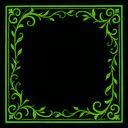
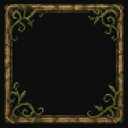
Update sewer sm atlas to warm moss tones matching background

diff --git a/FrontEnds/dungeon-fisher/src/version.js b/FrontEnds/dungeon-fisher/src/version.js
@@ -2,7 +2,7 @@
 //   MAJOR — large game changes, system overhauls, breaking save changes
 //   MINOR — new features, content additions (fish, scenes, mechanics)
 //   PATCH — bug fixes, UI tweaks, balance tuning
-export const VERSION = '1.13.43';
+export const VERSION = '1.13.44';
 
 // Save format version — bump when save data structure changes.
 // This is separate from the game version because UI/balance changes
